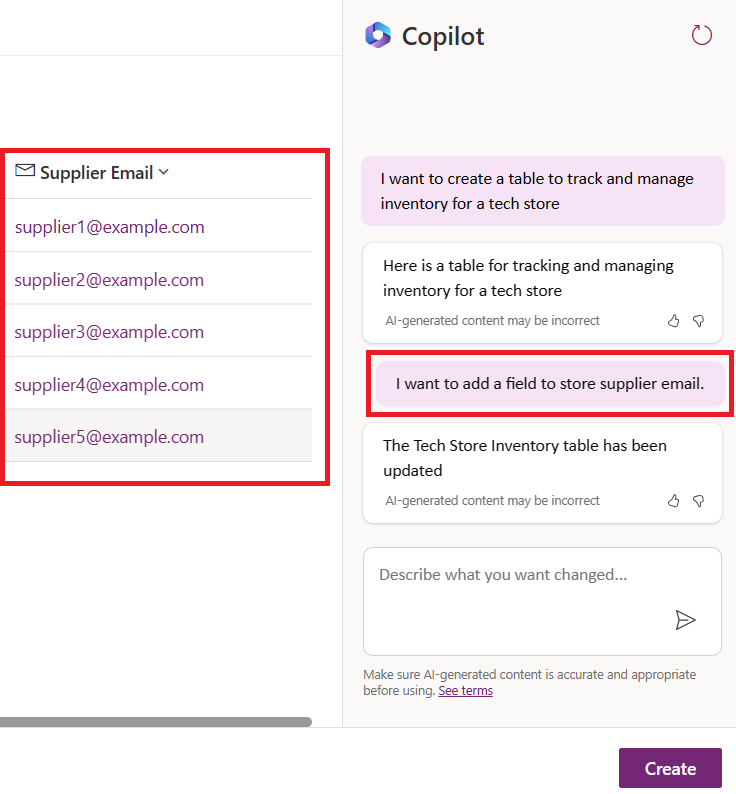
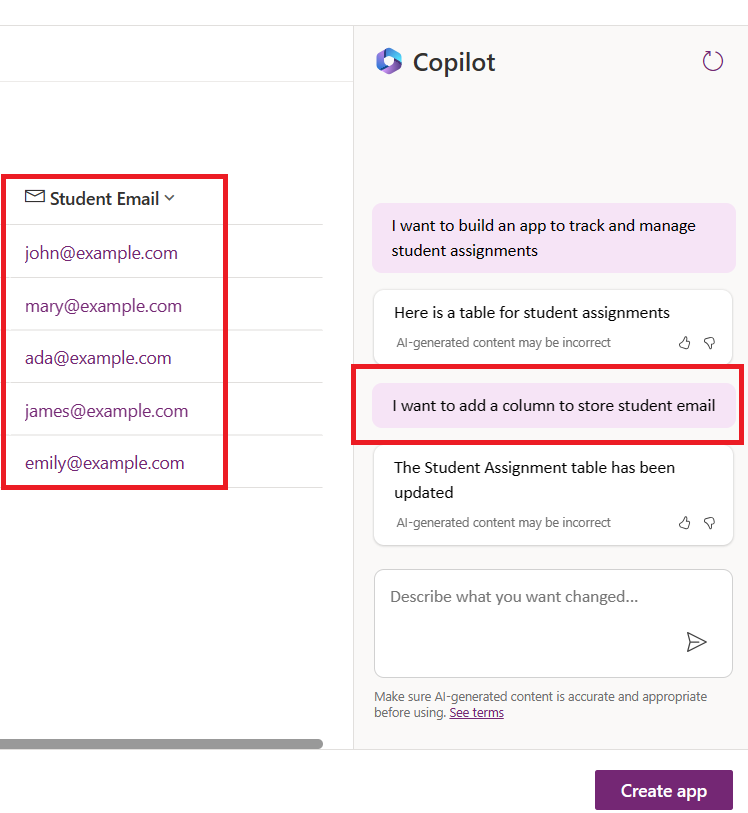
Made suggested updates

diff --git a/1-getting-started/lessons/10-building-low-code-ai-applications/README.md b/1-getting-started/lessons/10-building-low-code-ai-applications/README.md
@@ -2,7 +2,9 @@
 
 ## Introduction
 
-Building apps and solutions has become more easier for traditional developers and non-developers through the use of Low Code Development Platforms. Low Code Development Platforms enable you to build apps and solutions with little to no code. This is achieved by providing a visual development environment that enables you to drag and drop components to build apps and solutions. This enables you to build apps and solutions faster and with less resources. In this lesson, we dive deep into how to use Low Code and how to enhance low code development with AI.
+Building apps and solutions has become more easier for traditional developers and non-developers through the use of Low Code Development Platforms. Low Code Development Platforms enable you to build apps and solutions with little to no code. This is achieved by providing a visual development environment that enables you to drag and drop components to build apps and solutions. This enables you to build apps and solutions faster and with less resources. In this lesson, we dive deep into how to use Low Code and how to enhance low code development with AI using Power Platform.
+
+The Power Platform provides organizations with the opportunity to empower their teams to build their own solutions through an intuitive low-code or no-code environment. This environment helps simplify the process of building solutions. With Power Platform, solutions can be built in days or weeks instead of months or years. Power Platform consists of five key products: Power Apps, Power Automate, Power BI, Power Pages and Power Virtual Agents.
 
 This lesson covers:
 - Introduction to Generative AI in Power Platform
@@ -15,118 +17,128 @@ This lesson covers:
 By the end of this lesson, you will be able to:
 
 - Understand how Copilot works in Power Platform
-- Build an App using Copilot in PowerApps
+- Build a Student Assignment Tracker App for Edu4All, our fictitious education startup.
+- Build an Invoice Processing Flow that uses AI to extract information from invoices
 - Apply best practices when using the Create Text with GPT AI Model
+
+The tools and technologies that you will use in this lesson are:
+
+- PowerApps for the Student Assignment Tracker app, which provides a low-code development environment for building apps to track, manage and interact with data.
+- Dataverse for storing the data for the Student Assignment Tracker app where Dataverse will provide a low-code data platform for storing the apps data.
+- Power Automate for the Invoice Processing flow where you will have low-code development environment for building workflows to automate the Invoice Processing process.
+- AI Builder for the Invoice Processing AI Model where you will use prebuilt AI Models to process the Edu4All invoices.
 
 ## Generative AI in Power Platform
 
 Enhancing low-code development and application with generative AI is a key focus area for Power Platform. The goal is to enable everyone to build AI-powered apps, sites, dashboards and automate processes with AI, without requiring any data science expertise. This is achieved by integrating generative AI into the low-code development experience in Power Platform in the form of Copilot and AI Builder.
 
-### What is AI Copilot?
+How does this work? Copilot is an AI assistant that enables you to build Power Platform solutions by describing your requirements in a series of conversational steps using natural language. You can use Copilot driven functionalities as feature in your app screens to enable users to uncover insights through conversational interactions. AI Builder is a low-code AI capability available in Power Platform that enables you to use AI Models to help you to automate processes and predict outcomes. With AI Builder you can bring AI to your apps and flows that connect to your data in Dataverse or in various cloud data sources, such as SharePoint, OneDrive or Azure.
 
-AI Copilot enables you to build Power Platform solutions with underlying data through describing your requirements in a series of conversational steps using natural language. You can use AI Copilot driven functionalities as feature in your app screens to enable users to uncover insights through conversatonal interactions.
+Copilot is available in all of the Power Platform products: Power Apps, Power Automate, Power BI, Power Pages and Power Virtual Agents. AI Builder is available in Power Apps and Power Automate. In this lesson, we will focus on how to use Copilot and AI Builder in Power Apps and Power Automate to build a solution for Edu4All, our fictitious education startup.
 
-### PowerApps Copilot
+### Copilot in PowerApps
 
-The copilot AI assistant feature in PowerApps enables you to describe what kind of app you need and what information you want your app to track, collect, or show. Copilot then generates a responsive Canvas app based on your description. You can then customize the app to meet your needs. The AI Copilot also generates and suggests a Dataverse Table with the fields you need to store the data you want to track and some sample data. You can then customize the table to meet your needs using the AI Copilot assistant feature through conversational steps. This feature is readily available from the PowerApps home screen.
+As part of the Power Platform, PowerApps provides a low-code development environment for building apps to track, manage and interact with data. It is a suite of app development services with a scalable data platform and the ability to connect to cloud services and on-premises data. PowerApps allows you to build apps that run on browsers, tablets, and phones, and can be shared with co-workers. PowerApps eases users into app development with a simple interface, so that every business user or pro developer can build custom apps. The app development experience is also enhanced with Generative AI through Copilot.
 
-## Build Apps and Flows with Generative AI
+The copilot AI assistant feature in PowerApps enables you to describe what kind of app you need and what information you want your app to track, collect, or show. Copilot then generates a responsive Canvas app based on your description. You can then customize the app to meet your needs. The AI Copilot also generates and suggests a Dataverse Table with the fields you need to store the data you want to track and some sample data. We will look at what Dataverse is and how you can use it in PowerApps on this lesson later. You can then customize the table to meet your needs using the AI Copilot assistant feature through conversational steps. This feature is readily available from the PowerApps home screen.
 
-To build an app or a flow in PowerApps or Power Automate you would need to have a clear understanding of the requirements and the data that is required to build the app or flow. Make sure that you have a clear prompt to get the best results. For example, if you want to build an app to track the inventory of a store, you can use the following prompt: ***I want to build an app to track the inventory of a store***. This will help the AI Copilot to understand the requirements and generate the app accordingly.
+### Copilot in Power Automate
+
+As part of the Power Platform, Power Automate lets users create automated workflows between applications and services. It helpes automate repetitive business processes such as communication, data collection, and decision approvals. Its simple interface allows users with every technical competence (from beginners to seasoned developers) to automate work tasks. The workflow development experience is also enhanced with Generative AI through Copilot.
+
+The copilot AI assistant feature in Power Automate enables you to describe what kind of flow you need and what actions you want your flow to perform. Copilot then generates a flow based on your description. You can then customize the flow to meet your needs. The AI Copilot also generates and suggests the actions you need to perform the task you want to automate. We will look at what flows are and how you can use them in Power Automate on this lesson later. You can then customize the actions to meet your needs using the AI Copilot assistant feature through conversational steps. This feature is readily available from the Power Automate home screen.
+
+## Use Copilot to Build a Solution for Edu4All
+
+Edu4All is a fictitious education startup that provides online courses to students. The startup has grown rapidly and is now struggling to keep up with the demand for its courses. The startup has hired you as a Power Platform developer to help them build a low code solution to help them manage their student assignments and invoices. Their solution should be able to help them track and manage student assignments through an app and automate the invoice processing process through a workflow. You have been asked to use Generative AI to develop the solution.
 
 When you are getting started with using Copilot, you can use the [Power Platform Copilot Prompt Library](https://pnp.github.io/powerplatform-prompts/?WT.mc_id=academic-109639-somelezediko) to get started with the prompts. This library contains a list of prompts that you can use to build apps and flows with Copilot. You can also use the prompts in the library to get an idea of how to describe your requirements to Copilot.
 
-### Build and Update an App with Copilot in PowerApps
+### Build a Student Assignment Tracker App for Edu4All
 
-To build an app with Copilot in PowerApps, follow the steps below:
+The educators at Edu4All have been struggling to keep track of student assignments. They have been using a spreadsheet to track the assignments but this has become difficult to manage as the number of students has increased. They have asked you to build an app that will help them track and manage student assignments. The app should enable them to add new assignments, view assignments, update assignments and delete assignments. The app should also enable the educators and students to view the assignments that have been graded and those that have not been graded. 
+
+You will build the app using Copilot in PowerApps following the steps below:
 
 1. Navigate to the [PowerApps](https://make.powerapps.com) home screen.
 
-2. Use the text area on the home screen to describe the app you want to build. For example, ***I want to build an app to track and manage inventory of a tech store***. Click on the **Send** button to send the prompt to the AI Copilot.
+2. Use the text area on the home screen to describe the app you want to build. For example, ***I want to build an app to track and manage student assignments***. Click on the **Send** button to send the prompt to the AI Copilot.
 
     ![](images/copilot-chat-prompt-powerapps.png)
 
 3. The AI Copilot will suggest a Dataverse Table with the fields you need to store the data you want to track and some sample data. You can then customize the table to meet your needs using the AI Copilot assistant feature through conversational steps.
 
-    ![](images/copilot-table.png)
+> **Important**: Dataverse is the underlying data platform for Power Platform. It is a low-code data platform for storing the apps data. It is a fully managed service that securely stores data in the Microsoft Cloud and is provisioned within your Power Platform environment. It comes with built-in data governance capabilities, such as data classification, data lineage, fine-grained access control, and more. You can learn more about Dataverse [here](https://docs.microsoft.com/en-us/powerapps/maker/data-platform/data-platform-intro?WT.mc_id=academic-109639-somelezediko).
 
-4. Once you are done with the table, click on the **Create app** button to create the app.
+    ![](images/copilot-dataverse-table-powerapps.png)
 
-5. The AI Copilot will generate a responsive Canvas app based on your description. You can then customize the app to meet your needs (optional). You can also use the AI Copilot to add new screens to the app. For example, you can use the following prompt to add a new screen to the app: ***I want to add an email screen to send updates***. Click on the **Send** button to send the prompt to the AI Copilot.
+4. Educators want to send emails to the students who have submitted their assignments to keep them updated on the progress of their assignments. You can use Copilot to add a new field to the table to store the student email. For example, you can use the following prompt to add a new field to the table: ***I want to add a column to store student email***. Click on the **Send** button to send the prompt to the AI Copilot.
 
-    ![](images/copilot-app.png)
+    ![](images/copilot-new-column.png)
 
-6. Once you are done with the app, click on the **Save** button to save the app.
+5. The AI Copilot will generate a new field and you can then customize the field to meet your needs.
 
-7. You can then publish the app to make it available to the users.
+6. Once you are done with the table, click on the **Create app** button to create the app.
 
-### Author and Update a Dataverse Table with Copilot in PowerApps
+7. The AI Copilot will generate a responsive Canvas app based on your description. You can then customize the app to meet your needs.
 
-To author and update a Dataverse Table with Copilot in PowerApps, follow the steps below:
+8. For educators to send emails to students, you can use Copilot to add a new screen to the app. For example, you can use the following prompt to add a new screen to the app: ***I want to add a screen to send emails to students***. Click on the **Send** button to send the prompt to the AI Copilot.
+
+    ![](images/copilot-new-screen.png)
+
+9. The AI Copilot will generate a new screen and you can then customize the screen to meet your needs.
+
+10. Once you are done with the app, click on the **Save** button to save the app.
+
+11. To share the app with the educators, click on the **Share** button and then click on the **Share** button again. You can then share the app with the educators by entering their email addresses.
+
+> **Your homework**: The app you just built is a good start but can be improved. With the email feature, educators can only send emails to students manually by having to type their emails. Can you use Copilot to build an automation that will enable educators to send emails to students automatically when they submit their assignments? Your hint is with the right prompt you can use Copilot in Power Automate to build this.
+
+### Build an Invoices Information Table for Edu4All
+
+The Edu4All finance team has been struggling to keep track of invoices. They have been using a spreadsheet to track the invoices but this has become difficult to manage as the number of invoices has increased. They have asked you to build a table that will help them store, track and manage the information of the invoices they received. The table should be used to build an automation that will extract all the invoice information and store it in the table. The table should also enable the finance team to view the invoices that have been paid and those that have not been paid.
+
+The Power Platform has an underlying data platform called Dataverse that enables you to store the data for your apps and solutions. Dataverse provides a low-code data platform for storing the apps data. It is a fully managed service that securely stores data in the Microsoft Cloud and is provisioned within your Power Platform environment. It comes with built-in data governance capabilities, such as data classification, data lineage, fine-grained access control, and more. You can learn more about Dataverse [here](https://docs.microsoft.com/en-us/powerapps/maker/data-platform/data-platform-intro?WT.mc_id=academic-109639-somelezediko).
+
+Why should you use Dataverse for Edu4All? The standard and custom tables within Dataverse provide a secure and cloud-based storage option for your data. Tables let you store different types of data, similar to how you might use multiple worksheets in a single Excel workbook. You can use tables to store data that is specific to your organization or business need. Some of the benefits Edu4All will get from using Dataverse include but are not limited to: 
+
+- **Easy to manage**: Both the metadata and data are stored in the cloud, so you don't have to worry about the details of how they are stored or managed. You can focus on building your apps and solutions.
+
+- **Secure**: Dataverse provides a secure and cloud-based storage option for your data. You can control who has access to the data in your tables and how they can access it using role based security.
+
+- **Rich metadata**: Data types and relationships are used directly within PowerApps
+
+- **Logic and validation**: You can use business rules, calculated fields, and validation rules to enforce business logic and maintain data accuracy.
+
+Now that you know what Dataverse is and why you should use it, let's look at how you can use Copilot to create a table in Dataverse to meet the requirements of the Edu4All finance team.
+
+>**Note** : You will use this table in the next section to build an automation that will extract all the invoice information and store it in the table.
+
+To create a table in Dataverse using Copilot, follow the steps below:
 
 1. Navigate to the [PowerApps](https://make.powerapps.com) home screen.
 
 2. On the left navigation bar, select on **Tables** and then click on **Describe the new Table**.
 
-![](images/copilot-new-table.png)
+    ![](images/describe-new-table.png)
 
-3. On the right side of the screen, use the text area to describe the table you want to create. For example, ***I want to create a table to track and manage inventory for a tech store***. Click on the **Send** button to send the prompt to the AI Copilot.
+3. On the **Describe the new Table** screen, use the text area to describe the table you want to create. For example, ***I want to create a table to store invoice information***. Click on the **Send** button to send the prompt to the AI Copilot.
 
-    ![](images/copilot-new-table-prompt.png)
+    ![](images/copilot-chat-prompt-dataverse.png)
 
 4. The AI Copilot will suggest a Dataverse Table with the fields you need to store the data you want to track and some sample data. You can then customize the table to meet your needs using the AI Copilot assistant feature through conversational steps.
 
-5. To use AI Copilot to add a new field to the table, use the following prompt: ***I want to add a field to store supplier email.***. Click on the **Send** button to send the prompt to the AI Copilot.
+    ![](images/copilot-dataverse-table.png)
 
-    ![](images/copilot-new-column.png)
+5. The Edu4All finance team want to send an email to the supplier to update them with the current status of their invoice. You can use Copilot to add a new field to the table to store the supplier email. For example, you can use the following prompt to add a new field to the table: ***I want to add a column to store supplier email***. Click on the **Send** button to send the prompt to the AI Copilot.
 
 6. The AI Copilot will generate a new field and you can then customize the field to meet your needs.
 
 7. Once you are done with the table, click on the **Create** button to create the table.
 
-### Build and Update a Flow with Copilot in Power Automate
-
-To build a flow with Copilot in Power Automate, follow the steps below:
-
-1. Navigate to the [Power Automate](https://make.powerautomate.com) home screen.
-
-2. Use the text area on the home screen to describe the flow you want to build. For example, ***I want to receive updates when stock quantity drops to a certain number in Dataverse**. Click on the **Send** button to send the prompt to the AI Copilot.
-
-    ![](images/copilot-chat-prompt-powerautomate.png)
-
-3. The AI Copilot will suggest a flow with the actions you need to perform the task you want to automate. You click on the **Next** button to go through the steps.
-
-    ![](images/suggested-flow.png)
-
-4. Power Automate will prompt you to set up the connections required for the flow. Once you are done with the connections, click on the **Create Flow** button to create the flow.
-
-5. Update the **When a row is added, modified or deleted** trigger to use the table you created in the previous section.
-
-6. Update the **Get a row by ID** action to use the table you created in the previous section.
-
-7. Update the condition to use the dynamic content from the **Get a row by ID** action. Set the fields as shown below:
-
-    **Left**: `Quantity`,
-    **Condition**: `is less than`,
-    **Right**: `10`
-
-8. Update the **Send an email** action to use the dynamic content from the trigger. Set the fields as shown below:
-
-    **To**: `Email`,
-    **Subject**: `Quantity of Inventory Item Dropping`,
-    **Body**: `Hi team, the number of items in stock for the item: {Name} is dropping. Please check the inventory and update the stock.`
-
-9. Use copilot to add a new action to the flow. For example, you can use the following prompt to add a new action to the flow: ***I want to create a task in planner when the condition is true and send an email***. Click on the **Send** button to send the prompt to the AI Copilot.
-
-    ![](images/copilot-powerautomate.png)
-
-10. The AI Copilot will generate a new action and you can then customize the action to meet your needs.
-
-11. Once you are done with the flow, click on the **Save** button to save the flow.
-
 ## AI Models in Power Platform with AI Builder
 
-AI Builder is a low-code AI capability available in Power Platform that enables you to use AI Models to help you in automating processes and predicting outcomes. With AI Builder you can bring AI to your apps and flows that connect to your data in Dataverse or in various cloud data sources, such as SharePoint, OneDrive or Azure. 
+AI Builder is a low-code AI capability available in Power Platform that enables you to use AI Models to help you to automate processes and predict outcomes. With AI Builder you can bring AI to your apps and flows that connect to your data in Dataverse or in various cloud data sources, such as SharePoint, OneDrive or Azure. 
 
 ### Prebuilt AI Models vs Custom AI Models
 
@@ -143,17 +155,64 @@ Some of the Prebuilt AI Models available in Power Platform include:
 - **Form Processing**: This model extracts information from forms.
 - **Invoice Processing**: This model extracts information from invoices.
 
-With Custom AI Models you can bring your own model into AI Builder so that it can function like any AI Builder custom model, allowing you to train the model using your own data. You can use these models to automate processes and predict outcomes in both PowerApps and Power Automate. When using your own model there limitations that apply. Read more on these [limitations](https://learn.microsoft.com/en-us/ai-builder/byo-model#limitations).
+With Custom AI Models you can bring your own model into AI Builder so that it can function like any AI Builder custom model, allowing you to train the model using your own data. You can use these models to automate processes and predict outcomes in both PowerApps and Power Automate. When using your own model there are limitations that apply. Read more on these [limitations](https://learn.microsoft.com/en-us/ai-builder/byo-model#limitations).
 
 ![](images/ai-builder-models.png)
 
+### Build an Invoice Processing Flow for Edu4All
+
+The Edu4All finance team has been struggling to process invoices. They have been using a spreadsheet to track the invoices but this has become difficult to manage as the number of invoices has increased. They have asked you to build a workflow that will help them process invoices using AI. The workflow should enable them to extract information from invoices and store the information in a Dataverse table. The workflow should also enable them to send an email to the finance team with the extracted information.
+
+Now that you know what AI Builder is and why you should use it, let's look at how you can use the Invoice Processing AI Model in AI Builder, that we covered earlier on, to build a workflow that will help the Edu4All finance team process invoices.
+
+To build a workflow that will help the Edu4All finance team process invoices using the Invoice Processing AI Model in AI Builder, follow the steps below:
+
+1. Navigate to the [Power Automate](https://make.powerautomate.com) home screen.
+
+2. Use the text area on the home screen to describe the workflow you want to build. For example, ***Process an invoice when it arrives in my mailbox***. Click on the **Send** button to send the prompt to the AI Copilot.
+
+    ![](images/copilot-chat-prompt-powerautomate.png)
+
+3. The AI Copilot will suggest the actions you need to perform the task you want to automate. You can click on the **Next** button to go through the next steps.
+
+4. On the next step, Power Automate will prompt you to set up the connections required for the flow. Once you are done, click on the **Create flow** button to create the flow.
+
+5. The AI Copilot will generate a flow and you can then customize the flow to meet your needs.
+
+6. Update the trigger of the flow and set the **Folder** to the folder where the invoices will be stored. For example, you can set the folder to **Inbox**. Click on **Show advanced options** and set the **Only with Attachments** to **Yes**. This will ensure that the flow only runs when an email with an attachment is received in the folder.
+
+7. Remove the following actions from the flow: **HTML to text**, **Compose**, **Compose 2**, **Compose 3** and **Compose 4** because you will not be using them.
+
+8. Remove the **Condition** action from the flow because you will not be using it. It should look like the following screenshot:
+
+    ![](images/powerautomate-remove-actions.png)
+
+9. Click on the **Add an action** button and search for **Dataverse**. Select the **Add a new row** action.
+
+10. On the **Extract Information from invoices** action, update the **Invoice File** to point to the **Attachment Content** from the email. This will ensure that the flow extracts information from the invoice attachment.
+
+11. Select the **Table** you created earlier on. For example, you can select the **Invoice Information** table. Choose the dynamic content from the previous action to populate the following fields: 
+
+    * ID
+    * Amount
+    * Date
+    * Name
+    * Status - Set the **Status** to **Pending**.
+    * Supplier Email - Use the **From** dynamic content from the **When a new email arrives** trigger.
+
+    ![](images/powerautomate-add-row.png)
+
+12. Once you are done with the flow, click on the **Save** button to save the flow. You can then test the flow by sending an email with an invoice to the folder you specified in the trigger.
+
+> **Your homework**: The flow you just built is a good start, now you need to think of how you can build an automation that will enable the Edu4All finance team to send an email to the supplier to update them with the current status of their invoice. Your hint: the flow must run when the status of the invoice changes.
+
 ### Use a Text Generation AI Model in Power Automate
 
-The Create Text with GPT AI Model in AI Builder enables you to generate text based on a prompt and is powered by the Microsoft Azure OpenAI Service. With this capability, you can incorporate GPT (Generative Pre-Trained Tranformer) technology into your apps and flows to build a variety of automations and insightful applications. 
+The Create Text with GPT AI Model in AI Builder enables you to generate text based on a prompt and is powered by the Microsoft Azure OpenAI Service. With this capability, you can incorporate GPT (Generative Pre-Trained Transformer) technology into your apps and flows to build a variety of automations and insightful applications. 
 
 GPT models undergo extensive training on vast amounts of data, enabling them to produce text that closely resembles human language when provided with a prompt. When integrated with workflow automation, AI models like GPT can be harnessed to streamline and automate a wide range of tasks.
 
-For example, you can build flows to automatically generate text for a variety of use cases, such as: drafts of emails, product descriptions, and more. You can also use the model to generate text for a variety of apps, such as chatbots and customer service apps that enable customer service agents to respond effectively and effectiently to customer inquiries.
+For example, you can build flows to automatically generate text for a variety of use cases, such as: drafts of emails, product descriptions, and more. You can also use the model to generate text for a variety of apps, such as chatbots and customer service apps that enable customer service agents to respond effectively and efficiently to customer inquiries.
 
 ![](images/create-prompt-gpt.png)
 
